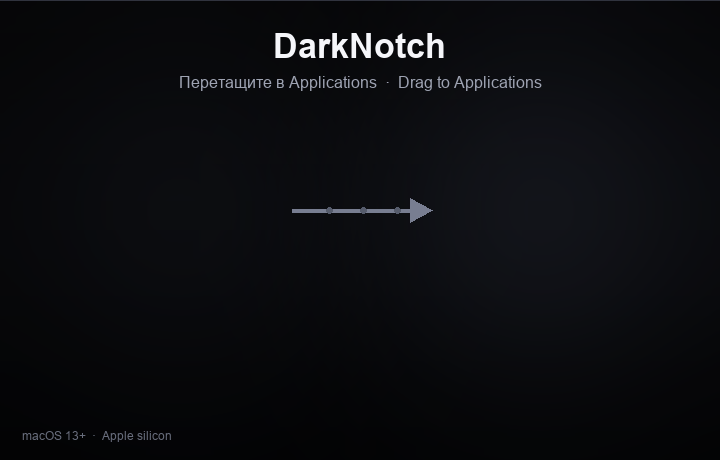
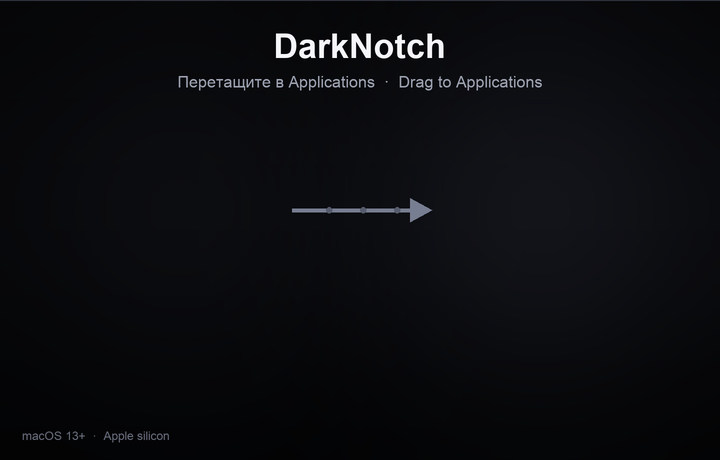
Fit the DMG background to the Finder content area
macOS 27 reserves 124 pt above the icon view, so a 460 pt window cut off
the install hint and clipped the README icon. Size the window to the
background plus chrome, and add a Retina background variant.

diff --git a/scripts/make_dmg_background.py b/scripts/make_dmg_background.py
@@ -1,5 +1,5 @@
 #!/usr/bin/env python3
-"""Draws the DarkNotch disk-image background.
+"""Draws the DarkNotch disk-image background at 1x and 2x.
 
 Requires Pillow: python3 -m pip install pillow
 Run from the repo root: python3 scripts/make_dmg_background.py
@@ -9,8 +9,8 @@ from pathlib import Path
 
 from PIL import Image, ImageDraw, ImageFilter, ImageFont
 
-W, H = 720, 460
 OUT = Path(__file__).resolve().parent.parent / "Resources" / "dmg" / "background.png"
+BASE_W, BASE_H = 720, 460
 
 FONT_DIR = Path("/System/Library/Fonts/Supplemental")
 BOLD = FONT_DIR / "Arial Bold.ttf"
@@ -25,63 +25,80 @@ def lerp(a: tuple[int, int, int], b: tuple[int, int, int], t: float) -> tuple[in
     return tuple(round(a[i] + (b[i] - a[i]) * t) for i in range(3))
 
 
-def gradient(top: tuple[int, int, int], bottom: tuple[int, int, int]) -> Image.Image:
-    img = Image.new("RGB", (W, H))
+def gradient(w: int, h: int, top: tuple[int, int, int], bottom: tuple[int, int, int]) -> Image.Image:
+    img = Image.new("RGB", (w, h))
     draw = ImageDraw.Draw(img)
-    for y in range(H):
-        draw.line([(0, y), (W, y)], fill=lerp(top, bottom, y / (H - 1)))
+    for y in range(h):
+        draw.line([(0, y), (w, y)], fill=lerp(top, bottom, y / (h - 1)))
     return img
 
 
 def glow(img: Image.Image, center: tuple[int, int], radius: int, color: tuple[int, int, int]) -> None:
-    layer = Image.new("RGB", (W, H), (0, 0, 0))
+    w, h = img.size
+    layer = Image.new("RGB", (w, h), (0, 0, 0))
     draw = ImageDraw.Draw(layer)
     draw.ellipse(
         [center[0] - radius, center[1] - radius, center[0] + radius, center[1] + radius],
         fill=color,
     )
-    layer = layer.filter(ImageFilter.GaussianBlur(90))
+    layer = layer.filter(ImageFilter.GaussianBlur(radius * 0.6))
     img.paste(Image.blend(img, layer, 0.45), (0, 0))
 
 
-def main() -> None:
-    img = gradient((17, 18, 22), (10, 11, 14))
-    glow(img, (180, 210), 150, (44, 48, 62))
-    glow(img, (540, 210), 150, (44, 48, 62))
+def render(scale: int) -> Image.Image:
+    w, h = BASE_W * scale, BASE_H * scale
+    s = scale
+    img = gradient(w, h, (17, 18, 22), (10, 11, 14))
+    glow(img, (180 * s, 210 * s), 150 * s, (44, 48, 62))
+    glow(img, (540 * s, 210 * s), 150 * s, (44, 48, 62))
 
     draw = ImageDraw.Draw(img)
-    draw.text((W // 2, 46), "DarkNotch", font=font(BOLD, 34), fill=(245, 246, 250), anchor="mm")
     draw.text(
-        (W // 2, 82),
+        (w // 2, 46 * s),
+        "DarkNotch",
+        font=font(BOLD, 34 * s),
+        fill=(245, 246, 250),
+        anchor="mm",
+    )
+    draw.text(
+        (w // 2, 82 * s),
         "Перетащите в Applications  ·  Drag to Applications",
-        font=font(REGULAR, 16),
+        font=font(REGULAR, 16 * s),
         fill=(158, 163, 178),
         anchor="mm",
     )
 
     # Arrow between the app and the Applications folder.
-    y = 210
-    start, end = 292, 432
-    draw.line([(start, y), (end - 18, y)], fill=(120, 126, 145), width=4)
-    draw.polygon([(end, y), (end - 22, y - 12), (end - 22, y + 12)], fill=(120, 126, 145))
+    y = 210 * s
+    start, end = 292 * s, 432 * s
+    draw.line([(start, y), (end - 18 * s, y)], fill=(120, 126, 145), width=4 * s)
+    draw.polygon(
+        [(end, y), (end - 22 * s, y - 12 * s), (end - 22 * s, y + 12 * s)],
+        fill=(120, 126, 145),
+    )
     for i in range(3):
-        x = start + 34 + i * 34
-        draw.ellipse([x, y - 3, x + 6, y + 3], fill=(86, 92, 108))
+        x = (start + 34 * s + i * 34 * s)
+        draw.ellipse([x, y - 3 * s, x + 6 * s, y + 3 * s], fill=(86, 92, 108))
 
     draw.text(
-        (22, H - 20),
+        (22 * s, h - 20 * s),
         "macOS 13+  ·  Apple silicon",
-        font=font(REGULAR, 12),
+        font=font(REGULAR, 12 * s),
         fill=(104, 109, 124),
         anchor="ls",
     )
 
     # Thin highlight along the top edge.
-    draw.line([(0, 0), (W, 0)], fill=(48, 51, 62), width=1)
+    draw.line([(0, 0), (w, 0)], fill=(48, 51, 62), width=s)
+    return img
 
+
+def main() -> None:
+    two_x = render(2)
     OUT.parent.mkdir(parents=True, exist_ok=True)
-    img.save(OUT, optimize=True)
-    print(f"Wrote {OUT}")
+    two_x.save(OUT.with_name("background@2x.png"), optimize=True)
+    two_x.resize((BASE_W, BASE_H), Image.LANCZOS).save(OUT, optimize=True)
+    print(f"Wrote {OUT} and {OUT.with_name('background@2x.png')}")
 
 
 if __name__ == "__main__":

diff --git a/packaging/dmg_settings.py b/packaging/dmg_settings.py
@@ -21,7 +21,10 @@ icon_locations = {
 }
 
 background = background
-window_rect = ((220, 140), (720, 460))
+# The Finder draws the background inside the content area. On macOS 27 the
+# chrome above it is 124 pt, so the window is 460 + 124 tall to keep the
+# 720x460 background unscaled and the bottom hint visible.
+window_rect = ((220, 140), (720, 584))
 default_view = "icon-view"
 icon_size = 128
 text_size = 14
